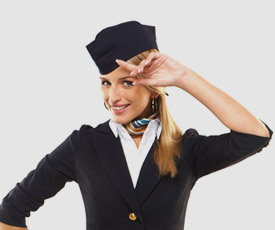
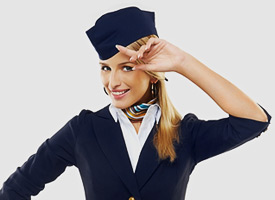
Заголовок окна, фотография в промо-блоке

diff --git a/public/js/offers.js b/public/js/offers.js
@@ -1,6 +1,7 @@
 var offersList = {
 options: {},
 init: function() {
+    this.title = $('#offers-title h1');
     this.container = $('#offers');
     this.loading = $('#offers-loading');
     this.results = $('#offers-results');
@@ -129,6 +130,8 @@ load: function() {
         },
         timeout: 150000
     });
+
+    // Запрос матрицы с задержкой, чтобы не слать лишние запросы при автоматическом поиске
     this.mrtimer = setTimeout(function() {
         params.search_type = 'calendar';
         self.update.mrequest =  $.ajax({
@@ -144,12 +147,15 @@ load: function() {
             },
             timeout: 60000
         });
-    }, params.restore_results ? 1000 : 8000);
+    }, params.restore_results ? 1000 : 10000);
+    
+    // Ничего не найдено, если не сработали таймауты запросов
     clearTimeout(this.resetTimer);
     this.resetTimer = setTimeout(function() {
         self.setUpdate('pcontent', '');
         self.setUpdate('mcontent', '');
-    }, 120000);
+    }, 160000);
+    
 },
 setUpdate: function(type, s) {
     this.update[type] = typeof s == 'string' ? s : '';
@@ -179,11 +185,15 @@ show: function(fixed) {
     search.toggle(false);
     search.submit.addClass('current');
     if (u.title) {
-        $('#offers-title h1').html(u.title);
+        this.title.html(u.title);
+        var sdates = this.title.find('.date').map(function() {
+            return $(this).attr('data-date');
+        }).get().join('—');
+        this.title.attr('data-title', this.title.find('.locations').html() + ' (' + sdates + ')');
     }
     if (u.loading) {
         this.toggle('loading');
-        pageurl.title('ищем для вас лучшие предложения…')
+        pageurl.title('поиск авиабилетов ' + this.title.attr('data-title'));
     } else if (u.pcontent) {
         this.toggle('loading');
         setTimeout(function() {
@@ -252,7 +262,7 @@ processUpdate: function() {
             } else {
                 $('#offers-tabs').trigger('set', self.selectedTab || pageurl.tab || 'featured');
                 pageurl.update('search', $('#offers-options').attr('data-query_key'));
-                pageurl.title($('#offers-title h1').text());
+                pageurl.title('авиабилеты ' + this.title.attr('data-title'));
             }
             self.toggleCollection(true);
         }, function() {

diff --git a/public/js/booking/form.js b/public/js/booking/form.js
@@ -106,7 +106,7 @@ init: function() {
     this.el.delegate('a.stop-booking', 'click', this.selfhide);
     
     // Заголовок страницы
-    pageurl.title('бронирование авиабилета');
+    pageurl.title('бронирование авиабилета ' + offersList.title.attr('data-title'));
 
 },
 show: function(variant) {
@@ -142,7 +142,7 @@ hide: function() {
     delete(this.offer);
     delete(this.variant);
     pageurl.update('booking', undefined);
-    pageurl.title();
+    pageurl.title('авиабилеты ' + this.title.attr('data-title'));    
 },
 book: function(variant) {
     var self = this;

diff --git a/public/css/promo.css b/public/css/promo.css
@@ -1,6 +1,6 @@
 #promo {
     padding: 17px 15px 16px 350px;
-    background: url(/img/promo/photo.jpg) no-repeat 20px 36% #e5e5e5;
+    background: url(/img/promo/photo.jpg) no-repeat 20px 32% #e5e5e5;
     font-size: 87.5%;
     font-weight: bold;
     color: #666;
